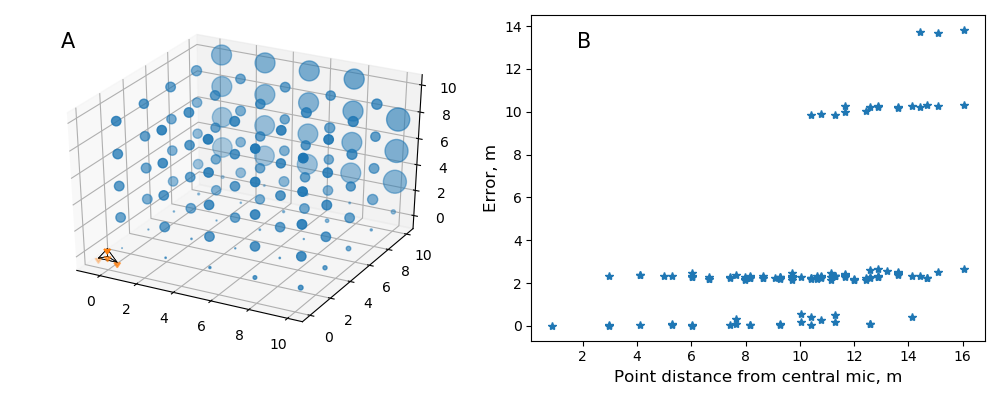
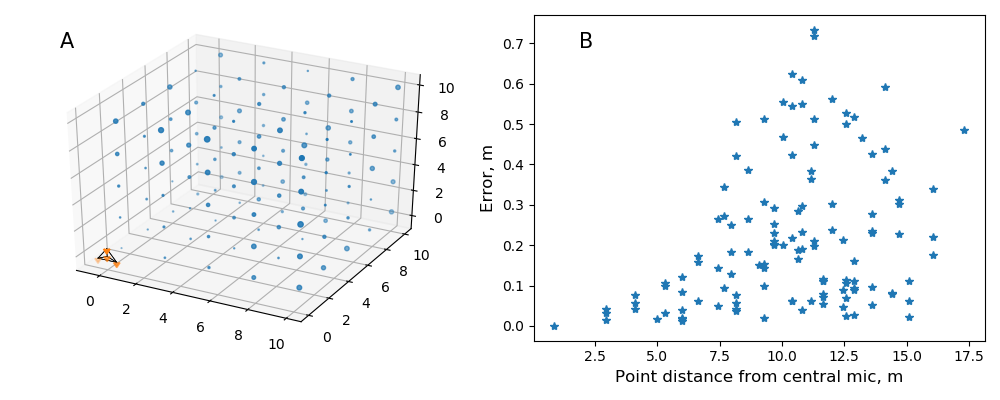
get corrected tristar results -  implement them + add corrected results file

diff --git a/data_for_figures/analysis/simulated_and_toadsuite.py b/data_for_figures/analysis/simulated_and_toadsuite.py
@@ -10,7 +10,7 @@ Created on Thu Jun 11 14:08:53 2020
 
 Acknowledgements
 ---------------
-Thanks to Lena De Framond for running the simulated audio files on TOADSuite.
+Thanks to Lena De Framond for running the simulated audio files on TOADSuite!
 
 @author: tbeleyur
 """
@@ -37,36 +37,39 @@ def draw_mic_array(mic_xyz, draw_axis):
     return draw_axis
         
 
-#### Tristar points
+#### Tristar points  ##########################################################
 # load the simulated points:
-tristar_point = pd.read_csv('../tristar_source_positions.csv')
+tristar_point_raw = pd.read_csv('../tristar_source_positions.csv')
 # load the obtained output
-toadsuite_out = pd.read_excel('../toadsuite_results/RES_fig1_tristar.xlsx', sheet_name='0000001_001')
+toadsuite_out = pd.read_excel('../toadsuite_results/CORRECTED_RES_fig1_tristar.xlsx', sheet_name='0000001_001')
 toadsuite_xyz = toadsuite_out.iloc[3:,[15,16,17]].copy()
 
 #remove last point bcos for some reason the TOADSuite output doesn't have the last point??!
-tristar_points_part = tristar_point.to_numpy()[:-1,:]
-toadsuite_points = toadsuite_xyz.to_numpy()
+tristar_points = tristar_point_raw.to_numpy()
+toadsuite_points = np.float64(toadsuite_xyz.to_numpy())
 
-tristar_diff = np.abs(tristar_points_part - toadsuite_points)
+tristar_diff = np.abs(tristar_points - toadsuite_points)
 tristar_euclidean_error = np.apply_along_axis(calculate_euclidean_error, 1, tristar_diff)
 
-points_and_error = np.column_stack((tristar_points_part, tristar_euclidean_error))
-
+points_and_error = np.column_stack((tristar_points, tristar_euclidean_error))
+all_data = np.column_stack((toadsuite_points, points_and_error))
+pd.DataFrame(data=all_data, columns=['toadsuite_x','toadsuite_y','toadsuite_z',
+                                     'actual_x', 'actual_y','actual_z',
+                                     'toadsuite_error']).to_csv('all_data.csv')
 
 trist_norm_error = (tristar_euclidean_error+0.01)/(np.min(tristar_euclidean_error)+0.01)
 
 plt.figure(figsize=(10,4))
 ax0 = plt.subplot(121,projection='3d')
 ax0.view_init(elev=32., azim=-62)
-ax0.scatter(tristar_points_part[:,0], tristar_points_part[:,1], tristar_points_part[:,2],
+ax0.scatter(tristar_points[:,0], tristar_points[:,1], tristar_points[:,2],
                                                 '*', s=trist_norm_error*0.2)
 ax0.scatter(standard_tristar[:,0],standard_tristar[:,1],standard_tristar[:,2],marker=11)
 draw_mic_array(standard_tristar, ax0)
 ax0.text2D(0.1, 0.9, "A", transform=ax0.transAxes, fontsize=15)
 plt.tight_layout()
 
-dist_from_central_mic = [scipy.spatial.distance.euclidean(each, [0,0,0]) for each in tristar_points_part]
+dist_from_central_mic = [scipy.spatial.distance.euclidean(each, [0,0,0]) for each in tristar_points]
 # radial distance - error plot 
 ax12 = plt.subplot(122)
 plt.plot(dist_from_central_mic, points_and_error[:,-1],'*')
@@ -77,7 +80,7 @@ plt.tight_layout()
 plt.savefig('fig1_points_and_error.png')
 
 
-##### Cave array points
+##### Cave array points ##########################################################
 cave_points = pd.read_csv('../cave_source_positions.csv')
 toadsuite_cave = pd.read_excel('../toadsuite_results/RES_fig2_cave.xlsx', sheet_name='0000002_001')
 toadsuite_cave_xyz = toadsuite_cave.iloc[3:,[15,16,17]].copy()
